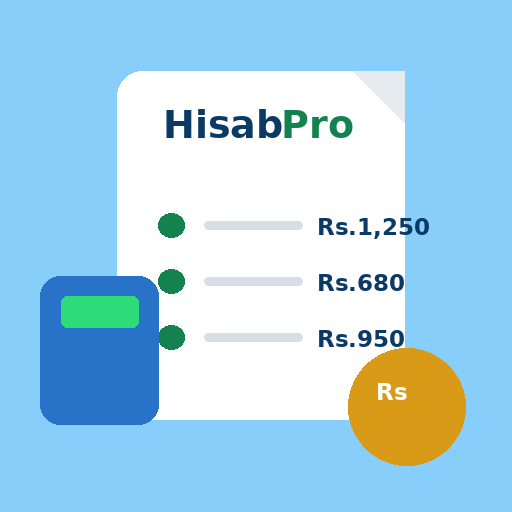
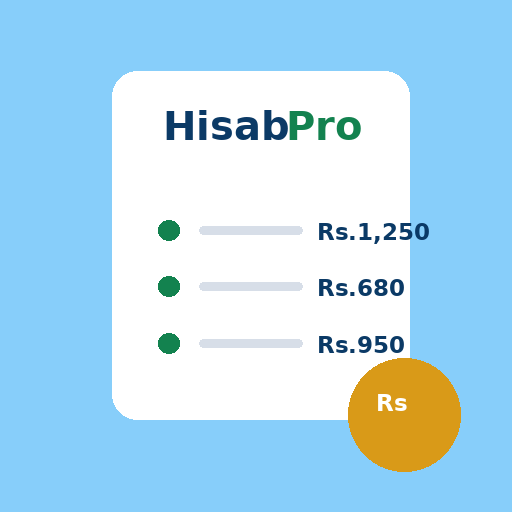
Add files via upload

diff --git a/service-worker.js b/service-worker.js
@@ -1,4 +1,4 @@
-const CACHE='hisabpro-v1-5-real-app';
+const CACHE='hisabpro-v1-6';
 const ASSETS=['./','./index.html','./manifest.json','./icons/icon-192.png','./icons/icon-512.png'];
 self.addEventListener('install',e=>{e.waitUntil(caches.open(CACHE).then(c=>c.addAll(ASSETS)));self.skipWaiting();});
 self.addEventListener('activate',e=>{e.waitUntil(caches.keys().then(keys=>Promise.all(keys.map(k=>k!==CACHE?caches.delete(k):null))));self.clients.claim();});